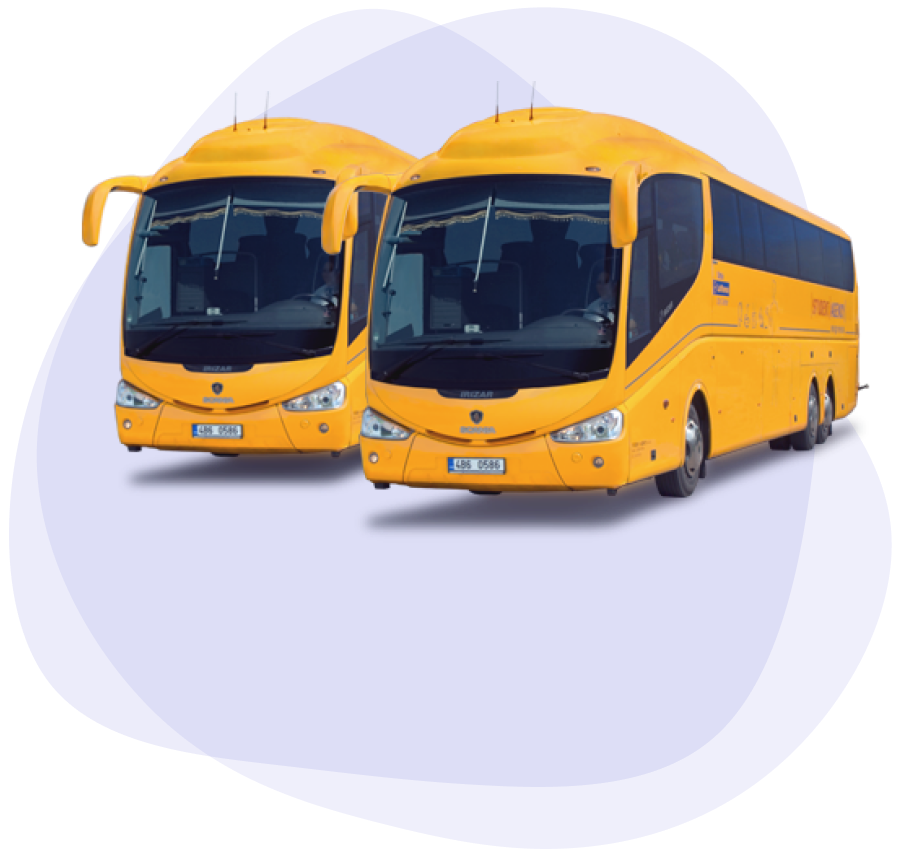
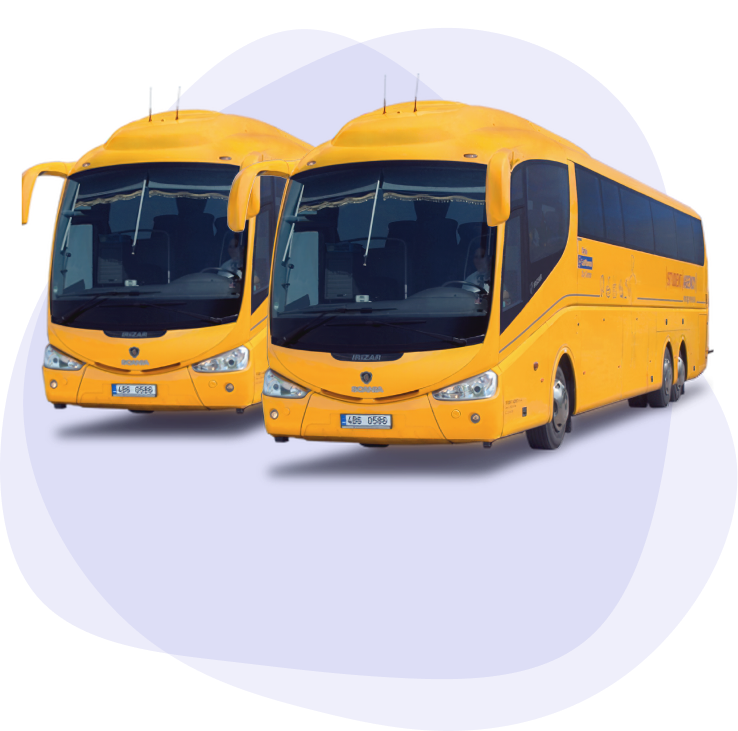
Fixed mobile views and other graphic stuff

Changed region(s): [[0.0312, 0.1204, 0.9661, 0.6621], [0.4363, 0.0301, 0.5298, 0.0602], [0.2182, 0.8728, 0.2493, 0.9029]]

diff --git a/src/scss/mobile/_mobile.scss b/src/scss/mobile/_mobile.scss
@@ -1,7 +1,5 @@
 @media all and (max-width: 1024px) {
-  .hero {
-    background: none
-  }
+
 }
 
 
@@ -11,21 +9,32 @@
   }
 
   .logo {
-    margin: auto;
-    max-width: 80px;
+    display: none;
+  }
+
+  .smallLogo{
+    display:block;
   }
 
   .hero {
+    margin-top:100px;
     background: none;
     min-height: 1px;
+    text-align:center;
+    transition: .1s;
+
+    &.active{
+      margin-top:15px;
+    }
 
     .content {
+      margin: 0 0 50px 0;
       p {
       width: 100%;
-      margin-bottom: 20px;
+      margin-bottom: 30px;
       }
       .btn-primary{
-        font-size: map-get($font-size, normal)
+        font-size: map-get($font-size, big);
       }
     }
 
@@ -39,10 +48,18 @@
         display:none;
       }
       .details{
-        padding:0;
+        padding:15px 0 0 0;
+
+        .offer{
+          margin-left: 15px;
+          margin-bottom:15px;
+        }
 
         h2,p{
-          padding-left:15px;
+          margin-left:15px;
+        }
+        .btn-primary{
+          display:block;
         }
       }
     }
@@ -68,6 +85,7 @@
         flex-direction: column;
         li{
           display:block;
+          margin: 0 0 20px 15px;
 
           a{
             color: #fff;

diff --git a/src/assets/js/navbar-toggle.js b/src/assets/js/navbar-toggle.js
@@ -1,10 +1,19 @@
 window.onload = function (e) {
   let mainNav = document.getElementById("js-menu");
   let navBarToggle = document.getElementById("js-navbar-toggle");
+  let hero = document.getElementById("hero");
+
 
   navBarToggle.addEventListener("click", function () {
     mainNav.classList.toggle("active");
     this.classList.toggle("active");
+    hero.classList.toggle("active");
+  });
+
+  mainNav.addEventListener("click", function () {
+    this.classList.remove("active")
+    navBarToggle.classList.remove("active")
+    hero.classList.remove("active")
   });
 
 }

diff --git a/src/app/homepage/homepage.component.html b/src/app/homepage/homepage.component.html
@@ -1,6 +1,5 @@
-
-<div class="container">
-  <div class="hero">
+<app-logo></app-logo>
+  <div class="hero"  id="hero">
 
     <div class="content">
       <img src="/assets/images/logo.png" class="logo" />
@@ -32,7 +31,6 @@
       </div>
     </section>
   </main>
-
   <section class="suggestions">
     <div class="card shadow">
       <div class="card-body" style="background: url('/assets/images/offer.png') no-repeat; background-size: cover; background-position:center;">
@@ -80,7 +78,3 @@
       </div>
     </div>
   </section>
-
-
-
-</div>

diff --git a/src/app/password-recovery/password-recovery.component.html b/src/app/password-recovery/password-recovery.component.html
@@ -1,6 +1,6 @@
 <app-logo></app-logo>
-<div class="passwordRecovery shadow">
-  <div class="form">
+<div class="passwordRecovery">
+  <div class="form shadow">
     <h2>Mot de passe oublié?</h2>
     <p>Un lien pour créer un nouveau de mot de passe sera envoyé à votre adresse email</p>
     <form>

diff --git a/src/app/password-new/password-new.component.html b/src/app/password-new/password-new.component.html
@@ -1,6 +1,6 @@
 <app-logo></app-logo>
-<div class="passwordRecovery shadow">
-  <div class="form">
+<div class="passwordRecovery">
+  <div class="form shadow">
     <h2>Nouveau mot de passe</h2>
     <form>
       <mat-form-field class="full-width">

diff --git a/src/scss/_common.scss b/src/scss/_common.scss
@@ -29,7 +29,7 @@ h1 {
   background: #fff;
   margin: auto;
   max-width: 1200px;
-  padding: 30px;
+  padding: 15px;
   clear:both;
 }
 

diff --git a/src/scss/_home.scss b/src/scss/_home.scss
@@ -88,4 +88,3 @@ section.suggestions {
     }
   }
 }
-
